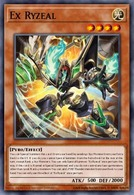
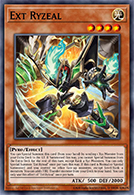
card fixes

diff --git a/TellarknightApp/Cards/Ryzeal/SwordRyzeal.cs b/TellarknightApp/Cards/Ryzeal/SwordRyzeal.cs
@@ -2,11 +2,11 @@
 
 namespace TellarknightApp.Cards
 {
-    public class ThodeRyzeal : Card
+    public class SwordRyzeal : Card
     {
-        public ThodeRyzeal()
+        public SwordRyzeal()
         {
-            Name = "Thode Ryzeal";
+            Name = "Sword Ryzeal";
             Type = "Thunder";
             Attribute = "Fire";
             Level = 4;
@@ -27,7 +27,7 @@ namespace TellarknightApp.Cards
                 return localStats;
             }
 
-            if (deck.Any(x => x is IceRyzeal || x is ExRyzeal))
+            if (deck.Any(x => x is IceRyzeal || x is ExtRyzeal))
             {
                 localStats.RyzealLock = true;
                 return localStats;

diff --git a/TellarknightApp/Cards/Ryzeal/ExtRyzeal.cs b/TellarknightApp/Cards/Ryzeal/ExtRyzeal.cs
@@ -2,11 +2,11 @@
 
 namespace TellarknightApp.Cards
 {
-    public class ExRyzeal : Card
+    public class ExtRyzeal : Card
     {
-        public ExRyzeal()
+        public ExtRyzeal()
         {
-            Name = "Ex Ryzeal";
+            Name = "Ext Ryzeal";
             Type = "Thunder";
             Attribute = "Fire";
             Level = 4;
@@ -27,7 +27,7 @@ namespace TellarknightApp.Cards
                 return localStats;
             }
 
-            if (deck.Any(x => x is ThodeRyzeal))
+            if (deck.Any(x => x is SwordRyzeal))
             {
                 localStats.RyzealLock = true;
                 return localStats;

diff --git a/TellarknightApp/Cards/Ryzeal/Bonfire.cs b/TellarknightApp/Cards/Ryzeal/Bonfire.cs
@@ -44,10 +44,10 @@ namespace TellarknightApp.Cards
                 return (hand, deck, extraDeck, gy, searched);
             }
 
-            // Search Ex Ryzeal
-            if (deck.Any(x => x is ExRyzeal))
+            // Search Ext Ryzeal
+            if (deck.Any(x => x is ExtRyzeal))
             {
-                Card searchedCard = deck.First(x => x is ExRyzeal);
+                Card searchedCard = deck.First(x => x is ExtRyzeal);
                 hand.Add(searchedCard);
                 deck.Remove(searchedCard);
                 return (hand, deck, extraDeck, gy, searched);

diff --git a/TellarknightApp/Services/SupportedCards.cs b/TellarknightApp/Services/SupportedCards.cs
@@ -104,13 +104,13 @@ namespace TellarknightApp.Services
                 //new ZefraDivineStrike(),
 
                 new IceRyzeal(),
-                new ExRyzeal(),
-                new ThodeRyzeal(),
+                new ExtRyzeal(),
+                new SwordRyzeal(),
                 new NodeRyzeal(),
                 new PalmaRyzeal(),
                 new RyzealCross(),
                 new RyzealPlugIn(),
-                new RyzealHoleThruster(),
+                new RyzealPlasmaHole(),
                 new Bonfire(),
 
                 new CenturIonPrimera(),

diff --git a/TellarknightApp/Cards/Ryzeal/RyzealPlasmaHole.cs b/TellarknightApp/Cards/Ryzeal/RyzealPlasmaHole.cs
@@ -2,11 +2,11 @@
 
 namespace TellarknightApp.Cards
 {
-    public class RyzealHoleThruster : Card
+    public class RyzealPlasmaHole : Card
     {
-        public RyzealHoleThruster() 
+        public RyzealPlasmaHole() 
         {
-            Name = "Ryzeal Hole Thruster";
+            Name = "Ryzeal Plasma Hole-----**";
             Type = "Trap";
             Attribute = string.Empty;
             Level = null;

diff --git a/TellarknightApp/Cards/Ryzeal/RyzealPlugIn.cs b/TellarknightApp/Cards/Ryzeal/RyzealPlugIn.cs
@@ -6,7 +6,7 @@ namespace TellarknightApp.Cards
     {
         public RyzealPlugIn() 
         {
-            Name = "Ryzeal Plug-In";
+            Name = "Ryzeal Plugin";
             Type = "Spell";
             Attribute = string.Empty;
             Level = null;
